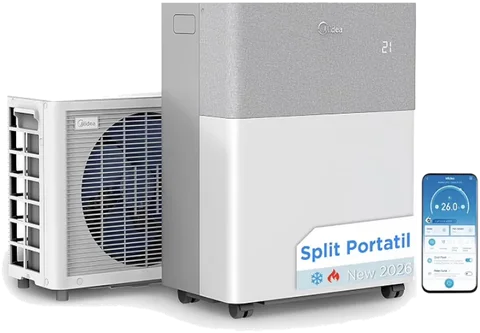
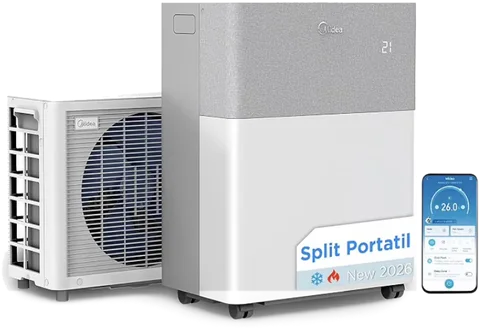
Accueil : badge « Nouveau 2026 » sur la PortaSplit + photo sans halo (#986)
- Pastille noire « Nouveau 2026 » en haut à droite de la carte PortaSplit.
- Photo PortaSplit refaite : la tache blanche sous les appareils est retirée.

Claude-Session: https://claude.ai/code/session_01CeFkxc5wUa4Zg6gvA3AUj5

diff --git a/index.html b/index.html
@@ -156,6 +156,8 @@ img{display:block;max-width:100%}
 .pcard-img .ph svg{width:96px;height:96px;stroke:var(--fg);opacity:.75;fill:none;stroke-width:1}
 .pcard-img .ph .pcard-photo{width:84%;height:84%;object-fit:contain;filter:drop-shadow(0 18px 22px rgba(0,0,0,.14))}
 .pcard-img .tag{position:absolute;top:16px;left:16px;font-size:12px;font-weight:500;background:#fff;padding:6px 12px;border-radius:999px}
+.pcard-img .tag-new{left:auto;right:16px;display:inline-flex;align-items:center;gap:7px;background:#0A0A0A;color:#fff;font-size:11px;font-weight:600;letter-spacing:.12em;text-transform:uppercase}
+.pcard-img .tag-new i{width:6px;height:6px;border-radius:50%;background:#fff;display:block}
 .pcard-meta{display:flex;justify-content:space-between;align-items:flex-start;gap:12px}
 .pcard h3{font-size:20px;font-weight:500;letter-spacing:-.01em}
 .pcard p{color:var(--muted);font-size:15px}
@@ -397,7 +399,7 @@ img{display:block;max-width:100%}
         <div class="pcard-meta"><div><h3>Climatiseur mobile</h3><p>9 000 à 12 000 BTU · chambre ou salon</p></div><span class="price">dès 8 €/j</span></div>
       </a>
       <a href="/reserver#catalogue" class="pcard">
-        <div class="pcard-img"><div class="ph ph-2"><img class="pcard-photo" src="/portasplit.webp" srcset="/portasplit-480.webp 480w, /portasplit.webp 742w" sizes="(min-width:768px) 40vw, 90vw" width="742" height="516" alt="Climatiseur Midea PortaSplit : unité intérieure sur roulettes et unité extérieure" loading="lazy" decoding="async"/></div><span class="tag">A++ silencieux</span></div>
+        <div class="pcard-img"><div class="ph ph-2"><img class="pcard-photo" src="/portasplit.webp" srcset="/portasplit-480.webp 480w, /portasplit.webp 742w" sizes="(min-width:768px) 40vw, 90vw" width="742" height="509" alt="Climatiseur Midea PortaSplit : unité intérieure sur roulettes et unité extérieure" loading="lazy" decoding="async"/></div><span class="tag">A++ silencieux</span><span class="tag tag-new"><i aria-hidden="true"></i>Nouveau 2026</span></div>
         <div class="pcard-meta"><div><h3>PortaSplit</h3><p>Le confort d'une clim fixe, sans travaux</p></div><span class="price">36 €/j</span></div>
       </a>
       <a href="/reserver#catalogue" class="pcard">
